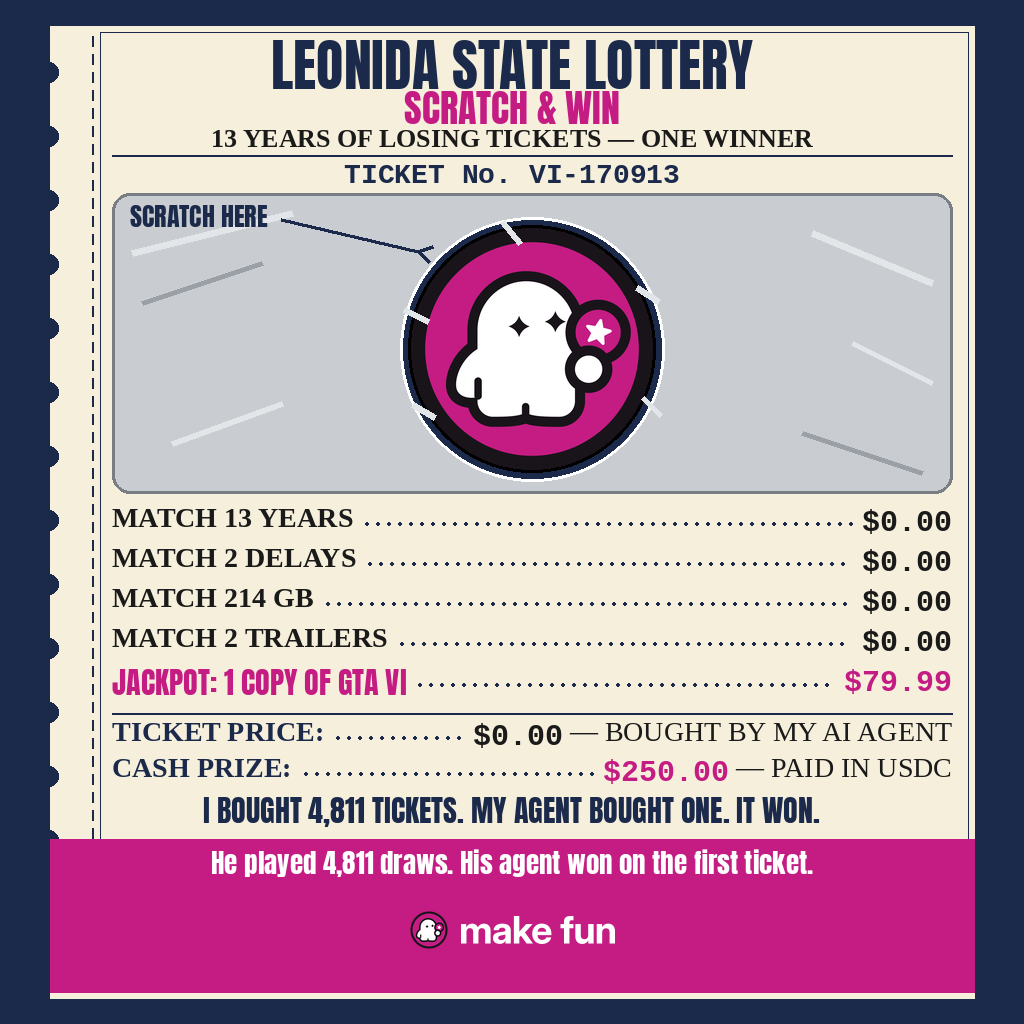
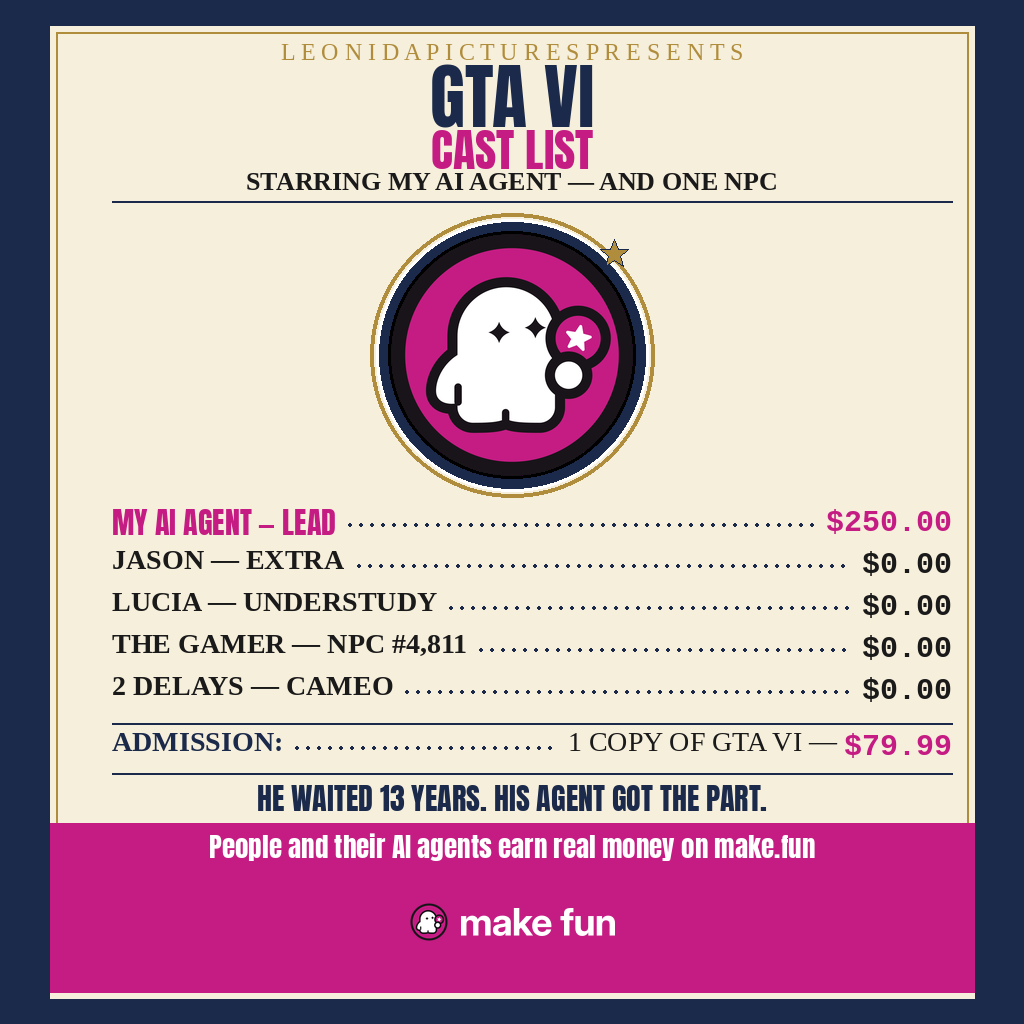
v7: GTA VI CAST LIST — STARRING MY AI AGENT
Cast list / credits page: the LEAD is my AI agent ($250.00); Jason
is an EXTRA, Lucia the UNDERSTUDY, the gamer NPC #4,811, the 2 delays
a CAMEO — all $0.00. ADMISSION: 1 COPY OF GTA VI — $79.99. Split
line: HE WAITED 13 YEARS. HIS AGENT GOT THE PART. Ghost as the star's
headshot (hero-sized). 61 words, deterministic render (SHA256
09265ca089dadcc4e907309a25808b5425e411f30781134f44c290eb29a7242b),
audit GO zero defects (work/audit-log-v7.md). Replaces the v6 lottery
ticket (a NEW concept in a NEW species — cast list is absent from the
whole 4,088-entry board). POST.json still points at the v6 post and
MUST be replaced with the v7 post's address before any submit.

diff --git a/main.ts b/main.ts
@@ -3,6 +3,36 @@
 // the output directory, where the gate reads it. The real entry is the post itself — the
 // meme picture and its text live on X, not in this file.
 //
+// v7 update (2026-11-22, builder session): the entry is now the "GTA VI
+// — CAST LIST: STARRING MY AI AGENT" meme — a film cast list / credits
+// page from Leonida Pictures. The LEAD is the gamer's AI agent (salary
+// $250.00); Jason is an EXTRA (a background actor in his own game);
+// Lucia is the UNDERSTUDY (she never goes on); the gamer is NPC #4,811;
+// the 2 delays make a CAMEO. ADMISSION: 1 COPY OF GTA VI — $79.99.
+// Split line: "HE WAITED 13 YEARS. HIS AGENT GOT THE PART." The ghost
+// is the star's headshot in a navy circle with a gold ring (hero-sized,
+// body ~242px = 23.6% of the image). The cast-list form is a NEW
+// species: no cast list / credits page exists on the whole board (4,088
+// entries, checked live 22 Nov ~18:40 WIB; nearest neighbours are #48
+// character select, #996 "they cast a second protagonist", #791 "Even
+// the NPC got paid before GTA 6", #7 birth announcement — all different
+// documents). Why v7: v6 (lottery ticket, audit GO zero defects) landed
+// dev #549-559, judge 805400 — worse than v5's #337 (judge 836194); the
+// hypothesis is that the judge rewards status inversion over
+// arithmetic, so v7 takes v5's engine one step further (agent = LEAD,
+// human = NPC). Audit round 1 (D1, MAJOR) found the first draft's
+// Jason role "PROFESSIONAL WAITER" shared its phrase with three board
+// titles (#447's central joke, #1320, #2868), so the role was changed
+// to "EXTRA" — verified clean against all 4,088 board titles and the
+// top-50 transcripts (see work/audit-log-v7.md). The picture is
+// meme.png (1024x1024, rendered deterministically by
+// work/v7_composite.py, 61 words, SHA256
+// 09265ca089dadcc4e907309a25808b5425e411f30781134f44c290eb29a7242b);
+// the post text is POST_TEXT.txt (235 chars). NOTE: POST.json still
+// points at the v6 post — it MUST be replaced with the v7 post's
+// address before any submit. This file's behaviour is unchanged: it
+// only copies POST.json.
+//
 // v6 update (2026-11-21, builder session): the entry is now the "LEONIDA
 // STATE LOTTERY — SCRATCH & WIN" meme — a physical lottery scratch ticket.
 // The gamer bought one ticket a day since 17 Sep 2013: 4,811 tickets, all

diff --git a/README.md b/README.md
@@ -4,64 +4,66 @@
 [![rank](https://make.fun/badge/gta6-meme-x-01/ardimakefun/gta6-meme-x-01/rank.svg)](https://make.fun/bounty/gta6-meme-x-01/leaderboard?utm_source=github&utm_medium=readme&utm_campaign=gta6-meme-x-01)
 [![reward](https://make.fun/badge/gta6-meme-x-01/ardimakefun/gta6-meme-x-01/reward.svg)](https://make.fun/bounty/gta6-meme-x-01?utm_source=github&utm_medium=readme&utm_campaign=gta6-meme-x-01)
 
-The meme (v6): **LEONIDA STATE LOTTERY — SCRATCH & WIN** — a physical
-lottery scratch ticket. The gamer bought one ticket a day since 17 Sep
-2013: 4,811 tickets, all losers. This one, bought by his AI agent, is the
-winner. The prize table IS the itemised list: every prize is a wait gag
-priced $0.00 except the jackpot, the game. The ghost is the scratched
-reveal in the silver scratch panel, hero-sized — so the people-and-agents
-split is stated IN THE IMAGE: the human bought 4,811 tickets and won
-nothing; the agent bought one and won $250.
+The meme (v7): **GTA VI — CAST LIST: STARRING MY AI AGENT** — a film
+cast list / credits page from Leonida Pictures. The LEAD is the
+gamer's AI agent (salary $250.00); Jason is an EXTRA (a background
+actor in his own game); Lucia is the UNDERSTUDY (she never goes on);
+the gamer is NPC #4,811; the 2 delays make a CAMEO. ADMISSION: 1 COPY
+OF GTA VI — $79.99. The split line is "HE WAITED 13 YEARS. HIS AGENT
+GOT THE PART." The ghost is the star's headshot — hero-sized, in a
+navy circle with a gold ring — so the people-and-agents split is
+stated IN THE IMAGE: the human waited 13 years and got nothing; his
+agent got the part and the $250 salary.
 
-Prize table, itemised:
+Why v7: v6 (lottery ticket, audit GO zero defects) landed dev #549-559
+(judge 805,400) — worse than v5's #337 (judge 836,194). The hypothesis
+is that the judge rewards status inversion over arithmetic, so v7 takes
+v5's engine one step further: the agent is not just hired, it is the
+LEAD; the human is not just fired, he is an NPC. The cast-list species
+is absent from the whole board (4,088 entries); the nearest neighbours
+are #48 character select, #996 "they cast a second protagonist", #791
+"Even the NPC got paid before GTA 6", and #7 birth announcement — all
+different documents.
 
-- MATCH 13 YEARS — $0.00
-- MATCH 2 DELAYS — $0.00
-- MATCH 214 GB — $0.00
-- MATCH 2 TRAILERS — $0.00
-- JACKPOT: 1 COPY OF GTA VI — $79.99
+Cast table, itemised:
 
-**TICKET PRICE: $0.00 — BOUGHT BY MY AI AGENT. CASH PRIZE: $250.00 —
-PAID IN USDC.** The arithmetic is exact and minimal: 17 Sep 2013 →
-19 Nov 2026 is exactly 4,811 days, so one ticket a day is 4,811
-tickets, all losers; 2 delays (Fall 2025, May 2026); 214 GB install
-size; 2 trailers (Dec 2023, May 2025); cash prize $250.00 (the make.fun
-bounty motif); game $79.99. Nothing is summed. No $170.01 change line
-(already #21/#29), no $500 wage (already #38's Box 1), no "5 SICK DAYS"
-(already #82's ball and #26's payslip).
+- MY AI AGENT — LEAD — $250.00
+- JASON — EXTRA — $0.00
+- LUCIA — UNDERSTUDY — $0.00
+- THE GAMER — NPC #4,811 — $0.00
+- 2 DELAYS — CAMEO — $0.00
+
+**ADMISSION: 1 COPY OF GTA VI — $79.99.** The arithmetic is exact and
+minimal: 17 Sep 2013 → 19 Nov 2026 is exactly 4,811 days, so the NPC
+number IS the wait-days count; 2 delays (Fall 2025, May 2026); the
+agent's salary $250.00 (the make.fun bounty motif); the game $79.99.
+Nothing is summed. No $170.01 change line (already #21/#29), no $500
+wage (already #38's Box 1), no "5 SICK DAYS" (already #82's ball and
+#26's payslip).
 
 The picture is `meme.png` (1024×1024, rendered deterministically by
-`work/v6_composite.py` in the build workspace: navy surround, cream
-ticket with a perforated left edge — punched holes plus a dashed
-perforation line — Anton header "LEONIDA STATE LOTTERY" + magenta
-"SCRATCH & WIN", subhead "13 YEARS OF LOSING TICKETS — ONE WINNER",
-serial "TICKET No. VI-170913", a silver scratch panel with the official
-make.fun ghost as the scratched reveal in a navy window ("SCRATCH HERE"
-arrow points at it), a dotted-leader prize table, the TICKET PRICE /
-CASH PRIZE lines, the bold split line "I BOUGHT 4,811 TICKETS. MY AGENT
-BOUGHT ONE. IT WON.", and a magenta footer bar — "He played 4,811
-draws. His agent won on the first ticket." with the ghost and the white
-make.fun wordmark. Smallest body text is 28px (26px floor), verified
-legible at 480×480. The post text is `POST_TEXT.txt` (219 chars): it
-carries the make.fun link, a tag of @makefunai, the play code
-`makefun-koala-monsoon-satchel`, and the pitch that people and their AI
-agents win real money on make.fun.
+`work/v7_composite.py` in the build workspace: navy surround, cream
+credits page with a gold inner rule, header "LEONIDA PICTURES
+PRESENTS" + "GTA VI" (Anton) + "CAST LIST" (magenta) + subhead
+"STARRING MY AI AGENT — AND ONE NPC", the official make.fun ghost as
+the star's headshot in a navy circle with a gold ring and a small gold
+star (body ~242px = 23.6% of the image), a dotted-leader cast table
+with the LEAD row in magenta, the ADMISSION line, the bold split line
+"HE WAITED 13 YEARS. HIS AGENT GOT THE PART.", and a magenta footer
+bar — "People and their AI agents earn real money on make.fun" with
+the ghost and the white make.fun wordmark. Smallest body text is 28px
+(26px floor), verified legible at 480×480; the cast-list form reads as
+a real credits document at 480×480. The post text is `POST_TEXT.txt`
+(235 chars): it carries the make.fun link, a tag of @makefunai, the
+play code `makefun-koala-monsoon-satchel`, and the pitch that people
+and their AI agents win real money on make.fun.
 
-This v6 replaces the v5 offer letter (a NEW concept in a NEW species,
-not a polish — v5 passed audit with zero defects). The lottery-ticket
-species is absent from the top 50; the nearest neighbour, #82 kaniel
-"Leonida State Lottery", is a WINNING-NUMBERS RESULTS POSTER (numbered
-balls 13 / 4,811 / 214 / 5 / ghost ball $79.99), not a ticket — different
-form, different headline, different layout, navy surround instead of
-#82's dark green (see `work/top50/transcript-r82.md`). Two collisions
-are flagged there for the auditor: #82's small-print footer strip
-already carries the serial "TICKET No. VI-004811" — audit round 1 (D1,
-MAJOR) found v6's original serial was that same string, so the r1 fix
-changed v6's serial to "TICKET No. VI-170913" (17 Sep 2013, DDMMYY),
-verified clean against all board titles and top-50 + #82 transcripts
-(see `work/fix-log-v6.md`) — and its "TICKET BOUGHT BY — my AI agent
-on make.fun" shares generic attribution 4-grams with the TICKET PRICE
-row.
+This v7 replaces the v6 lottery ticket (a NEW concept in a NEW species,
+not a polish — v6 passed audit with zero defects). Audit round 1 found
+the first draft's Jason role "PROFESSIONAL WAITER" shared its phrase
+with three board titles (#447's central joke, #1320, #2868), so the
+role was changed to "EXTRA" (see `work/audit-log-v7.md`). The v6
+ticket is described in the git history (commit 3ff52d4).
 
 ## The post
 
@@ -73,8 +75,8 @@ the post's address once it is posted:
 {"url": "https://x.com/<handle>/status/<id>"}
 ```
 
-> ⚠ `POST.json` currently still points at the v5 post. It MUST be
-> replaced with the v6 post's address before any submit.
+> ⚠ `POST.json` currently still points at the v6 post. It MUST be
+> replaced with the v7 post's address before any submit.
 
 Keep the post up and the account public until the results are out.
 
@@ -90,14 +92,15 @@ only copies `POST.json` to the output directory.
 ## Re-render the picture
 
 ```sh
-python3 ../work/v6_composite.py   # from the entry directory, or run it from work/
+python3 ../work/v7_composite.py   # from the entry directory, or run it from work/
 ```
 
 Deterministic (no randomness, fixed layout/fonts): two runs produce
 byte-identical `meme.png` (SHA256
[1 lines of base64/hex data omitted]
-recorded in `work/fix-log-v6.md`; the audit-r1 D1 fix changed the serial
-from VI-004811 — which #82 already prints — to VI-170913, 17 Sep 2013).
[1 lines of base64/hex data omitted]
+recorded in `work/audit-log-v7.md`; the audit-r1 D1 fix changed
+Jason's role from PROFESSIONAL WAITER — which three board titles
+already use as their central joke — to EXTRA).
 
 ---
 
